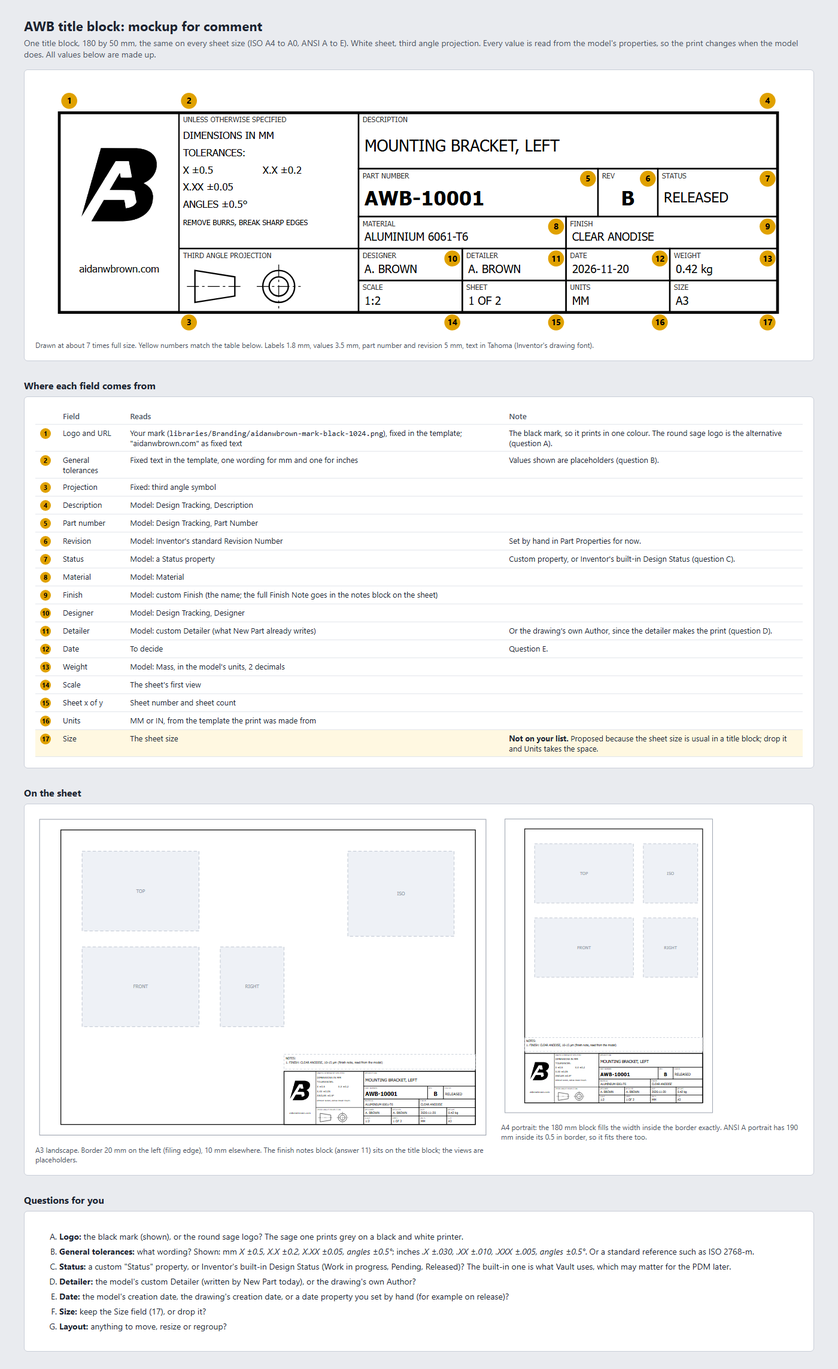
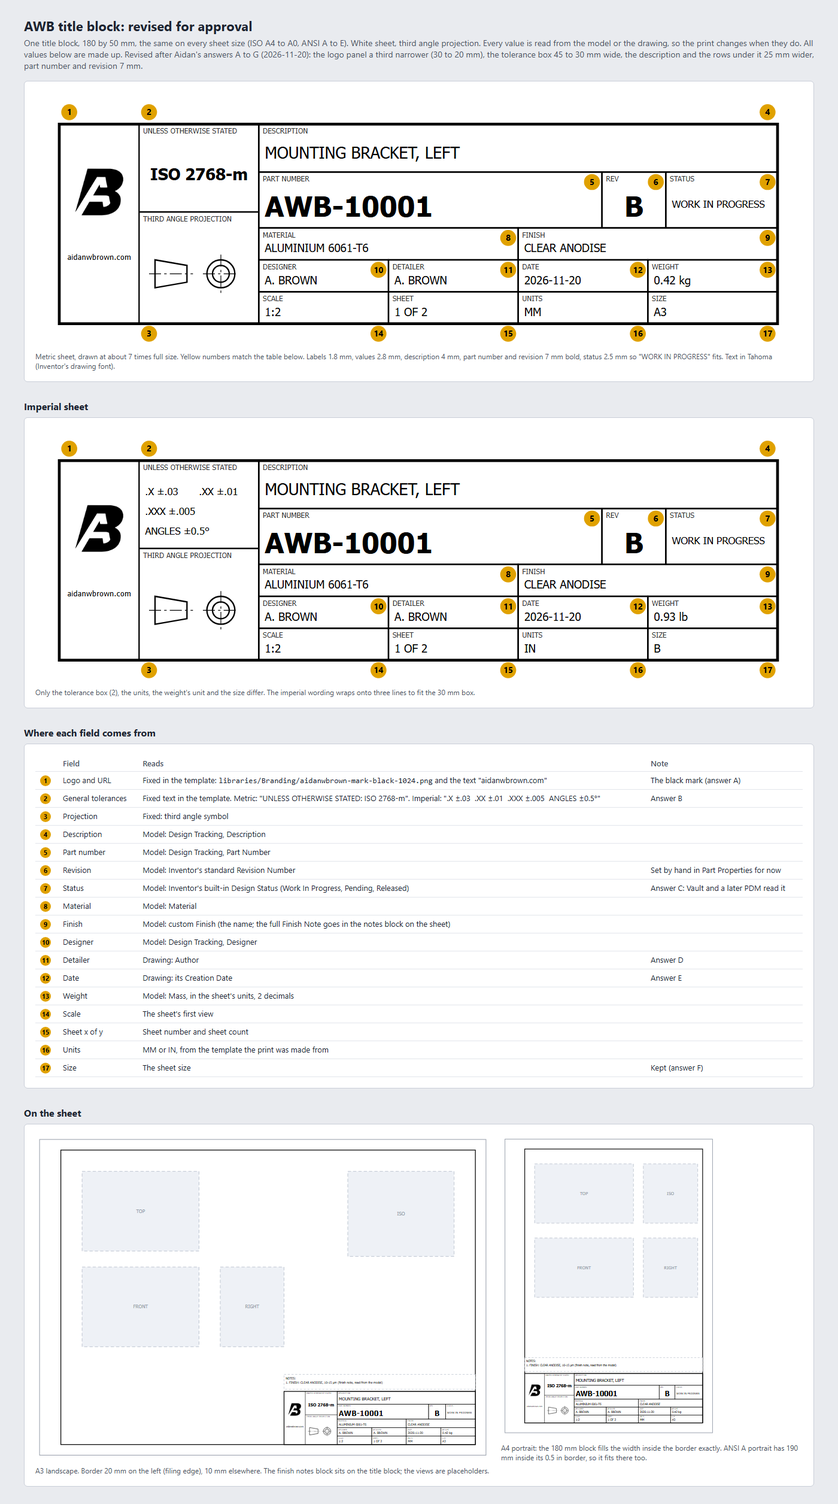
M5 planning: title block mockup revised after Aidan's answers A to G

diff --git a/docs/ui-mockups/title-block.html b/docs/ui-mockups/title-block.html
@@ -4,13 +4,14 @@
 <meta charset="utf-8">
 <title>AWB title block mockup</title>
 <!--
-  Source of title-block.png (M5, before any task). A mockup only: nothing here is used by the add-in.
+  Source of title-block.png (M5, before any task; revised after Aidan's answers A to G, 2026-11-20).
+  A mockup only: nothing here is used by the add-in.
   Drawn by us in millimetres. The only picture used is Aidan's own mark, libraries/Branding/aidanwbrown-mark-black-1024.png,
   loaded by relative path. Every value shown is made up.
 
   Render (from the repository root; the page is 1400 wide):
     "C:\Program Files (x86)\Microsoft\Edge\Application\msedge.exe" --headless --disable-gpu
-      --hide-scrollbars --force-device-scale-factor=1 --window-size=1400,2600
+      --hide-scrollbars --force-device-scale-factor=1 --window-size=1400,3000
       --screenshot="<repo>\docs\ui-mockups\title-block.png" "file:///<repo>/docs/ui-mockups/title-block.html"
   then trim the empty rows at the bottom (the page background, #E9EBEF) with Pillow.
 -->
@@ -28,65 +29,59 @@
   td.n { width: 22px; }
   .num { display: inline-block; min-width: 18px; height: 18px; border-radius: 9px; background: #e0a100; color: #000;
          font-size: 11px; font-weight: 700; text-align: center; line-height: 18px; }
-  .q { background: #fff8e1; }
-  ol li { margin-bottom: 6px; }
   .cap { font-size: 12px; color: #4a5263; margin-top: 6px; }
 </style>
 </head>
 <body>
 <div class="page">
-  <h1>AWB title block: mockup for comment</h1>
+  <h1>AWB title block: revised for approval</h1>
   <p class="lead">One title block, 180 by 50 mm, the same on every sheet size (ISO A4 to A0, ANSI A to E). White sheet, third angle projection.
-    Every value is read from the model's properties, so the print changes when the model does. All values below are made up.</p>
+    Every value is read from the model or the drawing, so the print changes when they do. All values below are made up.
+    Revised after Aidan's answers A to G (2026-11-20): the logo panel a third narrower (30 to 20 mm), the tolerance box 45 to 30 mm wide,
+    the description and the rows under it 25 mm wider, part number and revision 7 mm.</p>
 
   <div class="card">
     <svg id="tb" width="1280" viewBox="-6 -8 192 64" style="display:block"></svg>
-    <div class="cap">Drawn at about 7 times full size. Yellow numbers match the table below. Labels 1.8 mm, values 3.5 mm, part number and revision 5 mm, text in Tahoma (Inventor's drawing font).</div>
+    <div class="cap">Metric sheet, drawn at about 7 times full size. Yellow numbers match the table below. Labels 1.8 mm, values 2.8 mm, description 4 mm,
+      part number and revision 7 mm bold, status 2.5 mm so "WORK IN PROGRESS" fits. Text in Tahoma (Inventor's drawing font).</div>
+  </div>
+
+  <h2>Imperial sheet</h2>
+  <div class="card">
+    <svg id="tbin" width="1280" viewBox="-6 -8 192 64" style="display:block"></svg>
+    <div class="cap">Only the tolerance box (2), the units, the weight's unit and the size differ. The imperial wording wraps onto three lines to fit the 30 mm box.</div>
   </div>
 
   <h2>Where each field comes from</h2>
   <div class="card">
     <table>
       <tr><th></th><th>Field</th><th>Reads</th><th>Note</th></tr>
-      <tr><td class="n"><span class="num">1</span></td><td>Logo and URL</td><td>Your mark (<code>libraries/Branding/aidanwbrown-mark-black-1024.png</code>), fixed in the template; "aidanwbrown.com" as fixed text</td><td>The black mark, so it prints in one colour. The round sage logo is the alternative (question A).</td></tr>
-      <tr><td class="n"><span class="num">2</span></td><td>General tolerances</td><td>Fixed text in the template, one wording for mm and one for inches</td><td>Values shown are placeholders (question B).</td></tr>
+      <tr><td class="n"><span class="num">1</span></td><td>Logo and URL</td><td>Fixed in the template: <code>libraries/Branding/aidanwbrown-mark-black-1024.png</code> and the text "aidanwbrown.com"</td><td>The black mark (answer A)</td></tr>
+      <tr><td class="n"><span class="num">2</span></td><td>General tolerances</td><td>Fixed text in the template. Metric: "UNLESS OTHERWISE STATED: ISO 2768-m". Imperial: ".X ±.03 &nbsp;.XX ±.01 &nbsp;.XXX ±.005 &nbsp;ANGLES ±0.5°"</td><td>Answer B</td></tr>
       <tr><td class="n"><span class="num">3</span></td><td>Projection</td><td>Fixed: third angle symbol</td><td></td></tr>
       <tr><td class="n"><span class="num">4</span></td><td>Description</td><td>Model: Design Tracking, Description</td><td></td></tr>
       <tr><td class="n"><span class="num">5</span></td><td>Part number</td><td>Model: Design Tracking, Part Number</td><td></td></tr>
-      <tr><td class="n"><span class="num">6</span></td><td>Revision</td><td>Model: Inventor's standard Revision Number</td><td>Set by hand in Part Properties for now.</td></tr>
-      <tr><td class="n"><span class="num">7</span></td><td>Status</td><td>Model: a Status property</td><td>Custom property, or Inventor's built-in Design Status (question C).</td></tr>
+      <tr><td class="n"><span class="num">6</span></td><td>Revision</td><td>Model: Inventor's standard Revision Number</td><td>Set by hand in Part Properties for now</td></tr>
+      <tr><td class="n"><span class="num">7</span></td><td>Status</td><td>Model: Inventor's built-in Design Status (Work In Progress, Pending, Released)</td><td>Answer C: Vault and a later PDM read it</td></tr>
       <tr><td class="n"><span class="num">8</span></td><td>Material</td><td>Model: Material</td><td></td></tr>
       <tr><td class="n"><span class="num">9</span></td><td>Finish</td><td>Model: custom Finish (the name; the full Finish Note goes in the notes block on the sheet)</td><td></td></tr>
       <tr><td class="n"><span class="num">10</span></td><td>Designer</td><td>Model: Design Tracking, Designer</td><td></td></tr>
-      <tr><td class="n"><span class="num">11</span></td><td>Detailer</td><td>Model: custom Detailer (what New Part already writes)</td><td>Or the drawing's own Author, since the detailer makes the print (question D).</td></tr>
-      <tr><td class="n"><span class="num">12</span></td><td>Date</td><td>To decide</td><td>Question E.</td></tr>
-      <tr><td class="n"><span class="num">13</span></td><td>Weight</td><td>Model: Mass, in the model's units, 2 decimals</td><td></td></tr>
+      <tr><td class="n"><span class="num">11</span></td><td>Detailer</td><td>Drawing: Author</td><td>Answer D</td></tr>
+      <tr><td class="n"><span class="num">12</span></td><td>Date</td><td>Drawing: its Creation Date</td><td>Answer E</td></tr>
+      <tr><td class="n"><span class="num">13</span></td><td>Weight</td><td>Model: Mass, in the sheet's units, 2 decimals</td><td></td></tr>
       <tr><td class="n"><span class="num">14</span></td><td>Scale</td><td>The sheet's first view</td><td></td></tr>
       <tr><td class="n"><span class="num">15</span></td><td>Sheet x of y</td><td>Sheet number and sheet count</td><td></td></tr>
       <tr><td class="n"><span class="num">16</span></td><td>Units</td><td>MM or IN, from the template the print was made from</td><td></td></tr>
-      <tr class="q"><td class="n"><span class="num">17</span></td><td>Size</td><td>The sheet size</td><td><b>Not on your list.</b> Proposed because the sheet size is usual in a title block; drop it and Units takes the space.</td></tr>
+      <tr><td class="n"><span class="num">17</span></td><td>Size</td><td>The sheet size</td><td>Kept (answer F)</td></tr>
     </table>
   </div>
 
   <h2>On the sheet</h2>
   <div class="card">
     <div class="row">
-      <div><svg id="a3" width="760" viewBox="-4 -4 428 305"></svg><div class="cap">A3 landscape. Border 20 mm on the left (filing edge), 10 mm elsewhere. The finish notes block (answer 11) sits on the title block; the views are placeholders.</div></div>
+      <div><svg id="a3" width="760" viewBox="-4 -4 428 305"></svg><div class="cap">A3 landscape. Border 20 mm on the left (filing edge), 10 mm elsewhere. The finish notes block sits on the title block; the views are placeholders.</div></div>
       <div><svg id="a4" width="360" viewBox="-4 -4 218 305"></svg><div class="cap">A4 portrait: the 180 mm block fills the width inside the border exactly. ANSI A portrait has 190 mm inside its 0.5 in border, so it fits there too.</div></div>
     </div>
-  </div>
-
-  <h2>Questions for you</h2>
-  <div class="card">
-    <ol type="A">
-      <li><b>Logo:</b> the black mark (shown), or the round sage logo? The sage one prints grey on a black and white printer.</li>
-      <li><b>General tolerances:</b> what wording? Shown: mm <i>X ±0.5, X.X ±0.2, X.XX ±0.05, angles ±0.5°</i>; inches <i>.X ±.030, .XX ±.010, .XXX ±.005, angles ±0.5°</i>. Or a standard reference such as ISO 2768-m.</li>
-      <li><b>Status:</b> a custom "Status" property, or Inventor's built-in Design Status (Work in progress, Pending, Released)? The built-in one is what Vault uses, which may matter for the PDM later.</li>
-      <li><b>Detailer:</b> the model's custom Detailer (written by New Part today), or the drawing's own Author?</li>
-      <li><b>Date:</b> the model's creation date, the drawing's creation date, or a date property you set by hand (for example on release)?</li>
-      <li><b>Size:</b> keep the Size field (17), or drop it?</li>
-      <li><b>Layout:</b> anything to move, resize or regroup?</li>
-    </ol>
   </div>
 </div>
 
@@ -100,79 +95,73 @@ function el(parent, name, attrs, text) {
   parent.appendChild(e);
   return e;
 }
-// Cells: x, y, w, h (mm), label, value, value size, callout number, options
+// Cells: x, y, w, h (mm), label, value (and its imperial value), value size, callout number, options
 const cells = [
-  { x: 75,  y: 0,  w: 105, h: 14, label: "DESCRIPTION", value: "MOUNTING BRACKET, LEFT", size: 4, n: 4 },
-  { x: 75,  y: 14, w: 60,  h: 12, label: "PART NUMBER", value: "AWB-10001", size: 5, bold: true, n: 5 },
-  { x: 135, y: 14, w: 15,  h: 12, label: "REV", value: "B", size: 5, bold: true, n: 6, centre: true },
-  { x: 150, y: 14, w: 30,  h: 12, label: "STATUS", value: "RELEASED", size: 3.5, n: 7 },
-  { x: 75,  y: 26, w: 52,  h: 8,  label: "MATERIAL", value: "ALUMINIUM 6061-T6", size: 2.8, n: 8 },
-  { x: 127, y: 26, w: 53,  h: 8,  label: "FINISH", value: "CLEAR ANODISE", size: 2.8, n: 9 },
-  { x: 75,  y: 34, w: 26,  h: 8,  label: "DESIGNER", value: "A. BROWN", size: 2.8, n: 10 },
-  { x: 101, y: 34, w: 26,  h: 8,  label: "DETAILER", value: "A. BROWN", size: 2.8, n: 11 },
-  { x: 127, y: 34, w: 26,  h: 8,  label: "DATE", value: "2026-11-20", size: 2.8, n: 12 },
-  { x: 153, y: 34, w: 27,  h: 8,  label: "WEIGHT", value: "0.42 kg", size: 2.8, n: 13 },
-  { x: 75,  y: 42, w: 26,  h: 8,  label: "SCALE", value: "1:2", size: 2.8, n: 14 },
-  { x: 101, y: 42, w: 26,  h: 8,  label: "SHEET", value: "1 OF 2", size: 2.8, n: 15 },
-  { x: 127, y: 42, w: 26,  h: 8,  label: "UNITS", value: "MM", size: 2.8, n: 16 },
-  { x: 153, y: 42, w: 27,  h: 8,  label: "SIZE", value: "A3", size: 2.8, n: 17 },
+  { x: 50,    y: 0,  w: 130,  h: 12, label: "DESCRIPTION", value: "MOUNTING BRACKET, LEFT", size: 4, n: 4 },
+  { x: 50,    y: 12, w: 86,   h: 14, label: "PART NUMBER", value: "AWB-10001", size: 7, bold: true, n: 5 },
+  { x: 136,   y: 12, w: 16,   h: 14, label: "REV", value: "B", size: 7, bold: true, n: 6, centre: true },
+  { x: 152,   y: 12, w: 28,   h: 14, label: "STATUS", value: "WORK IN PROGRESS", size: 2.5, n: 7 },
+  { x: 50,    y: 26, w: 65,   h: 8,  label: "MATERIAL", value: "ALUMINIUM 6061-T6", size: 2.8, n: 8 },
+  { x: 115,   y: 26, w: 65,   h: 8,  label: "FINISH", value: "CLEAR ANODISE", size: 2.8, n: 9 },
+  { x: 50,    y: 34, w: 32.5, h: 8,  label: "DESIGNER", value: "A. BROWN", size: 2.8, n: 10 },
+  { x: 82.5,  y: 34, w: 32.5, h: 8,  label: "DETAILER", value: "A. BROWN", size: 2.8, n: 11 },
+  { x: 115,   y: 34, w: 32.5, h: 8,  label: "DATE", value: "2026-11-20", size: 2.8, n: 12 },
+  { x: 147.5, y: 34, w: 32.5, h: 8,  label: "WEIGHT", value: "0.42 kg", imperial: "0.93 lb", size: 2.8, n: 13 },
+  { x: 50,    y: 42, w: 32.5, h: 8,  label: "SCALE", value: "1:2", size: 2.8, n: 14 },
+  { x: 82.5,  y: 42, w: 32.5, h: 8,  label: "SHEET", value: "1 OF 2", size: 2.8, n: 15 },
+  { x: 115,   y: 42, w: 32.5, h: 8,  label: "UNITS", value: "MM", imperial: "IN", size: 2.8, n: 16 },
+  { x: 147.5, y: 42, w: 32.5, h: 8,  label: "SIZE", value: "A3", imperial: "B", size: 2.8, n: 17 },
 ];
 
-function titleBlock(svg, ox, oy, callouts) {
+function titleBlock(svg, ox, oy, callouts, imperial) {
   const g = el(svg, "g", { transform: `translate(${ox},${oy})`, "font-family": FONT, fill: "#000" });
   const line = { stroke: "#000", "stroke-width": 0.35, fill: "none" };
   el(g, "rect", { x: 0, y: 0, width: 180, height: 50, stroke: "#000", "stroke-width": 0.7, fill: "#fff" });
-  el(g, "line", { x1: 30, y1: 0, x2: 30, y2: 50, ...line });
-  el(g, "line", { x1: 75, y1: 0, x2: 75, y2: 50, ...line });
-  el(g, "line", { x1: 30, y1: 34, x2: 75, y2: 34, ...line });
+  el(g, "line", { x1: 20, y1: 0, x2: 20, y2: 50, ...line });
+  el(g, "line", { x1: 50, y1: 0, x2: 50, y2: 50, ...line });
+  el(g, "line", { x1: 20, y1: 22, x2: 50, y2: 22, ...line });
   for (const c of cells) {
     el(g, "rect", { x: c.x, y: c.y, width: c.w, height: c.h, ...line });
     el(g, "text", { x: c.x + 1, y: c.y + 2.4, "font-size": 1.8, fill: "#333" }, c.label);
     const vy = c.y + c.h - (c.h - 2.6 - c.size) / 2 - 0.6;
     el(g, "text", { x: c.centre ? c.x + c.w / 2 : c.x + 1.5, y: vy, "font-size": c.size,
-      "text-anchor": c.centre ? "middle" : "start", "font-weight": c.bold ? 700 : 400 }, c.value);
+      "text-anchor": c.centre ? "middle" : "start", "font-weight": c.bold ? 700 : 400 }, imperial && c.imperial ? c.imperial : c.value);
   }
-  // 1: logo column
-  el(g, "image", { href: "../../libraries/Branding/aidanwbrown-mark-black-1024.png", x: 4, y: 7, width: 22, height: 22 });
-  el(g, "text", { x: 15, y: 40, "font-size": 2.5, "text-anchor": "middle" }, "aidanwbrown.com");
-  // 2: general tolerances
-  const t = [
-    ["UNLESS OTHERWISE SPECIFIED", 1.8, "#333"],
-    ["DIMENSIONS IN MM", 2.5],
-    ["TOLERANCES:", 2.5],
-    ["X ±0.5|X.X ±0.2", 2.5],
-    ["X.XX ±0.05", 2.5],
-    ["ANGLES ±0.5°", 2.5],
-    ["REMOVE BURRS, BREAK SHARP EDGES", 1.8],
-  ];
-  let ty = 2.4;
-  for (const [s, size, fill] of t) {
-    s.split("|").forEach((part, i) => el(g, "text", { x: 31 + i * 20, y: ty, "font-size": size, fill: fill || "#000" }, part));
-    ty += size === 1.8 && ty < 3 ? 4.2 : 4.3;
+  // 1: logo panel, 20 wide
+  el(g, "image", { href: "../../libraries/Branding/aidanwbrown-mark-black-1024.png", x: 3, y: 10, width: 14, height: 14 });
+  el(g, "text", { x: 10, y: 34, "font-size": 2, "text-anchor": "middle" }, "aidanwbrown.com");
+  // 2: general tolerances, 30 by 22
+  el(g, "text", { x: 21, y: 2.4, "font-size": 1.8, fill: "#333" }, "UNLESS OTHERWISE STATED");
+  if (imperial) {
+    el(g, "text", { x: 21.5, y: 8.6, "font-size": 2.5 }, ".X ±.03");
+    el(g, "text", { x: 35, y: 8.6, "font-size": 2.5 }, ".XX ±.01");
+    el(g, "text", { x: 21.5, y: 13.6, "font-size": 2.5 }, ".XXX ±.005");
+    el(g, "text", { x: 21.5, y: 18.6, "font-size": 2.5 }, "ANGLES ±0.5°");
+  } else {
+    el(g, "text", { x: 35, y: 14, "font-size": 4, "font-weight": 700, "text-anchor": "middle" }, "ISO 2768-m");
   }
   // 3: third angle symbol: frustum on the left, small end towards the circles on the right
-  el(g, "text", { x: 31, y: 36.4, "font-size": 1.8, fill: "#333" }, "THIRD ANGLE PROJECTION");
-  const sx = 40, sy = 43.5;
-  el(g, "path", { d: `M${sx - 6},${sy - 4} L${sx + 4},${sy - 2.4} L${sx + 4},${sy + 2.4} L${sx - 6},${sy + 4} Z`, ...line, "stroke-width": 0.35 });
-  el(g, "line", { x1: sx - 8, y1: sy, x2: sx + 6, y2: sy, stroke: "#000", "stroke-width": 0.18, "stroke-dasharray": "3 0.8 0.6 0.8" });
-  el(g, "circle", { cx: sx + 15, cy: sy, r: 4, ...line });
-  el(g, "circle", { cx: sx + 15, cy: sy, r: 2.4, ...line });
-  el(g, "line", { x1: sx + 9.5, y1: sy, x2: sx + 20.5, y2: sy, stroke: "#000", "stroke-width": 0.18, "stroke-dasharray": "3 0.8 0.6 0.8" });
-  el(g, "line", { x1: sx + 15, y1: sy - 5.5, x2: sx + 15, y2: sy + 5.5, stroke: "#000", "stroke-width": 0.18, "stroke-dasharray": "3 0.8 0.6 0.8" });
+  el(g, "text", { x: 21, y: 24.4, "font-size": 1.8, fill: "#333" }, "THIRD ANGLE PROJECTION");
+  const sx = 28.5, sy = 37.5;
+  const cl = { stroke: "#000", "stroke-width": 0.18, "stroke-dasharray": "3 0.8 0.6 0.8" };
+  el(g, "path", { d: `M${sx - 4.5},${sy - 3.5} L${sx + 3.5},${sy - 2.1} L${sx + 3.5},${sy + 2.1} L${sx - 4.5},${sy + 3.5} Z`, ...line });
+  el(g, "line", { x1: sx - 6, y1: sy, x2: sx + 5, y2: sy, ...cl });
+  el(g, "circle", { cx: sx + 12, cy: sy, r: 3.5, ...line });
+  el(g, "circle", { cx: sx + 12, cy: sy, r: 2.1, ...line });
+  el(g, "line", { x1: sx + 7.5, y1: sy, x2: sx + 16.5, y2: sy, ...cl });
+  el(g, "line", { x1: sx + 12, y1: sy - 4.8, x2: sx + 12, y2: sy + 4.8, ...cl });
 
   if (!callouts) return;
   const bubble = (x, y, n) => {
     el(g, "circle", { cx: x, cy: y, r: 2, fill: "#e0a100" });
     el(g, "text", { x, y: y + 0.75, "font-size": 2.1, "font-weight": 700, "text-anchor": "middle", "font-family": "Segoe UI" }, n);
   };
-  bubble(2.5, -3, 1); bubble(32.5, -3, 2); bubble(32.5, 52.5, 3);
-  for (const c of cells) {
-    if (c.y === 0 || c.y === 14 || c.y === 26) bubble(c.x + c.w - 2.5, c.y === 0 ? -3 : c.y + 2.5, c.n);
-    else bubble(c.x + c.w - 2.5, c.y === 42 ? 52.5 : c.y + 2.5, c.n);
-  }
+  bubble(2.5, -3, 1); bubble(22.5, -3, 2); bubble(22.5, 52.5, 3);
+  for (const c of cells) bubble(c.x + c.w - 2.5, c.y === 0 ? -3 : c.y === 42 ? 52.5 : c.y + 2.5, c.n);
 }
 
-titleBlock(document.getElementById("tb"), 0, 0, true);
+titleBlock(document.getElementById("tb"), 0, 0, true, false);
+titleBlock(document.getElementById("tbin"), 0, 0, true, true);
 
 function sheet(svg, w, h, views) {
   const g = el(svg, "g", {});
@@ -187,7 +176,7 @@ function sheet(svg, w, h, views) {
   el(g, "rect", { x: nx, y: ny, width: 180, height: 14, fill: "#fff", stroke: "#b8c0cc", "stroke-width": 0.4, "stroke-dasharray": "2 1.5" });
   el(g, "text", { x: nx + 1.5, y: ny + 4.5, "font-size": 2.8, "font-family": FONT }, "NOTES:");
   el(g, "text", { x: nx + 1.5, y: ny + 9, "font-size": 2.8, "font-family": FONT }, "1. FINISH: CLEAR ANODISE, 10-15 µm (finish note, read from the model)");
-  titleBlock(g, w - 10 - 180, h - 10 - 50, false);
+  titleBlock(g, w - 10 - 180, h - 10 - 50, false, false);
 }
 sheet(document.getElementById("a3"), 420, 297, [[40, 30, 110, 75, "TOP"], [40, 120, 110, 75, "FRONT"], [170, 120, 60, 75, "RIGHT"], [290, 30, 100, 80, "ISO"]]);
 sheet(document.getElementById("a4"), 210, 297, [[30, 25, 100, 60, "TOP"], [30, 100, 100, 60, "FRONT"], [140, 100, 55, 60, "RIGHT"], [140, 25, 55, 60, "ISO"]]);

diff --git a/docs/features/05-drawing-tools.md b/docs/features/05-drawing-tools.md
@@ -39,7 +39,7 @@ Decided by Aidan on 2026-10-10: a custom drawing template is a separate item for
 
 - **Order:** the print template first. Then Open Drawing, Place Initial Views and Check Out of Bounds. The notes and symbols commands come later.
 - **Template:** ISO A4 to A0 and ANSI A to E, metric and imperial; white sheets, not Inventor's cream; third angle projection. Revision table and parts list styles are in the template, but nothing places them automatically. A starter template ships in the repo, with a Settings path to Aidan's own copy. Create Print uses it.
-- **Title block:** part number, description, material, finish, designer, detailer, status, weight, revision, date, scale, sheet x of y, units, general tolerances, the projection symbol, Aidan's logo (the files in `libraries/Branding/`, not a drawn logo) and aidanwbrown.com. Revision is Inventor's standard Revision Number and Status a Status property, both read from the model and set by hand in Part Properties for now. Mockup: `docs/ui-mockups/title-block.png`, waiting on Aidan's comments (questions 5 to 11 below).
+- **Title block:** part number, description, material, finish, designer, detailer, status, weight, revision, date, scale, sheet x of y, units, general tolerances, the projection symbol, Aidan's logo (the files in `libraries/Branding/`, not a drawn logo) and aidanwbrown.com. Revision is Inventor's standard Revision Number and Status Inventor's built-in Design Status, both read from the model and set by hand in Part Properties for now. The Detailer is the drawing's Author and the Date the drawing's date. The black mark is the logo. General tolerances: metric "UNLESS OTHERWISE STATED: ISO 2768-m"; imperial ".X ±.03  .XX ±.01  .XXX ±.005  ANGLES ±0.5°". A Size field shows the sheet size. Layout: `docs/ui-mockups/title-block.png` (180 by 50 mm on every sheet size; logo panel 20 mm, tolerance and projection column 30 mm; part number and revision 7 mm).
 - **Finish notes:** a notes block on the sheet reads the finish note from the model and updates with it.
 - **Open Drawing:** opens the model's print from `Prints\`; when there is none, it offers Create Print.
 - **Place Initial Views:** part: front, top, right and iso. Sheet metal: folded front and the flat pattern. Assembly: front and iso. Scale by Create Print's rule. A window shown before the print is created lets the user confirm or change the views.
@@ -63,10 +63,4 @@ Each command is a thin read, call Core, apply. Creating drawings and placing vie
 2. ~~Which views count as initial views?~~ Answered 2026-11-20, see above.
 3. Which title blocks are there to switch between, and when is each used? Deferred with Change Title Block.
 4. ~~Which commands matter most?~~ Answered 2026-11-20, see above.
-5. Title block logo: the black mark or the round sage logo? (mockup question A)
-6. General tolerance wording in mm and inches, or a standard such as ISO 2768-m? (B)
-7. Status: a custom Status property, or Inventor's built-in Design Status? (C)
-8. Detailer: the model's custom Detailer, or the drawing's own Author? (D)
-9. Date: the model's creation date, the drawing's, or a date set by hand? (E)
-10. Keep the proposed Size field? (F)
-11. Any layout changes to the title block? (G)
+5. to 11. Title block questions A to G: answered by Aidan on 2026-11-20, see Decided above.

diff --git a/DECISIONS.md b/DECISIONS.md
@@ -466,3 +466,10 @@ The detail of each decision lives in the spec named in the last column. This fil
 | 2026-11-20 | Place Initial Views: part front, top, right and iso; sheet metal folded front plus flat pattern; assembly front and iso; Create Print's scale rule. A window before the print is created lets the user confirm or change the views | Aidan | spec 05, M5 planning |
 | 2026-11-20 | M5 planning questions 14 to 18 (asked in an earlier session; the list is not in the repo) stay open; ask again when those commands come up | Aidan | spec 05, M5 planning |
 | 2026-11-20 | Task 182 passed its check in Inventor; PR #33 merged into `main`. M5 is planned on `claude/m5-drawing-tools` | Aidan | task 182 |
+| 2026-11-20 | Title block logo: the black mark (`libraries/Branding/aidanwbrown-mark-black-1024.png`); prints are usually black and white | Aidan | spec 05, title block mockup |
+| 2026-11-20 | Title block general tolerances: metric sheets "UNLESS OTHERWISE STATED: ISO 2768-m"; imperial sheets ".X ±.03  .XX ±.01  .XXX ±.005  ANGLES ±0.5°" | Aidan | spec 05, title block mockup |
+| 2026-11-20 | Title block Status reads Inventor's built-in Design Status (Vault and a future PDM read it). Replaces "a Status property" | Aidan | spec 05, title block mockup |
+| 2026-11-20 | Title block Detailer reads the drawing's own Author | Aidan | spec 05, title block mockup |
+| 2026-11-20 | Title block Date is the drawing's date | Aidan | spec 05, title block mockup |
+| 2026-11-20 | Title block keeps the Size field | Aidan | spec 05, title block mockup |
+| 2026-11-20 | Title block layout: logo panel a third narrower (20 mm), its space to the description; tolerance box shrunk to fit the ISO 2768-m wording (30 mm); part number and revision text 7 mm. Everything else as in the first mockup | Aidan | spec 05, title block mockup |

diff --git a/TODO.md b/TODO.md
@@ -6,7 +6,7 @@ Last updated: 2026-11-20
 
 ## Next up
 
-1. M5, drawing tools (spec 05): Aidan comments on the title block mockup (`docs/ui-mockups/title-block.png`, questions A to G on it); then write the tasks, print template first. M4 is done: part 1 PR #29 (2026-11-10), part 2 PR #32 (2026-11-20).
+1. M5, drawing tools (spec 05): Aidan approves the revised title block mockup (`docs/ui-mockups/title-block.png`); then write the tasks, print template first. M4 is done: part 1 PR #29 (2026-11-10), part 2 PR #32 (2026-11-20).
 2. **Later, not this round** (Aidan, 2026-10-25): every AWB icon gets a more polished look, done together with the colour option.
 3. Aidan finishes the remaining Part Properties checks below.
 
@@ -82,7 +82,7 @@ Each spec lists its own open questions in full. These are the ones that block pl
 - Question 20 in spec 04: Renumber on a re-opened table waits for Update to redraw (Default); or should it redraw at once?
 
 **Drawing tools (spec 05), blocks M5 tasks**
-- Title block mockup (`docs/ui-mockups/title-block.png`): questions A to G on it (logo version, general tolerance wording, custom Status or Inventor's Design Status, Detailer source, which date, the proposed Size field, layout)
+- Approve the revised title block mockup (`docs/ui-mockups/title-block.png`); questions A to G were answered on 2026-11-20
 - M5 planning questions 14 to 18 (from an earlier session; their wording is not in the repo): ask again when those commands come up (Aidan, 2026-11-20)
 
 **iLogic (spec 06), blocks M6**

diff --git a/docs/ui-mockups/README.md b/docs/ui-mockups/README.md
@@ -101,4 +101,4 @@ The built window no longer matches the mockup in these ways, so the common holes
 
 ![Title block mockup](title-block.png)
 
-`title-block.png`, rendered from `title-block.html` with headless Edge (command at the top of the HTML). One 180 by 50 mm title block for every sheet size, drawn in millimetres, with the field-to-property table, the block on an A3 and an A4 sheet, and questions A to G for Aidan (also spec 05 questions 5 to 11). The only picture is Aidan's mark from `libraries/Branding/`. Waiting on Aidan's comments.
+`title-block.png`, rendered from `title-block.html` with headless Edge (command at the top of the HTML). One 180 by 50 mm title block for every sheet size, drawn in millimetres, with the field-to-property table, the block on an A3 and an A4 sheet, and an imperial version of the block. Revised after Aidan's answers A to G (2026-11-20). The only picture is Aidan's mark from `libraries/Branding/`.
